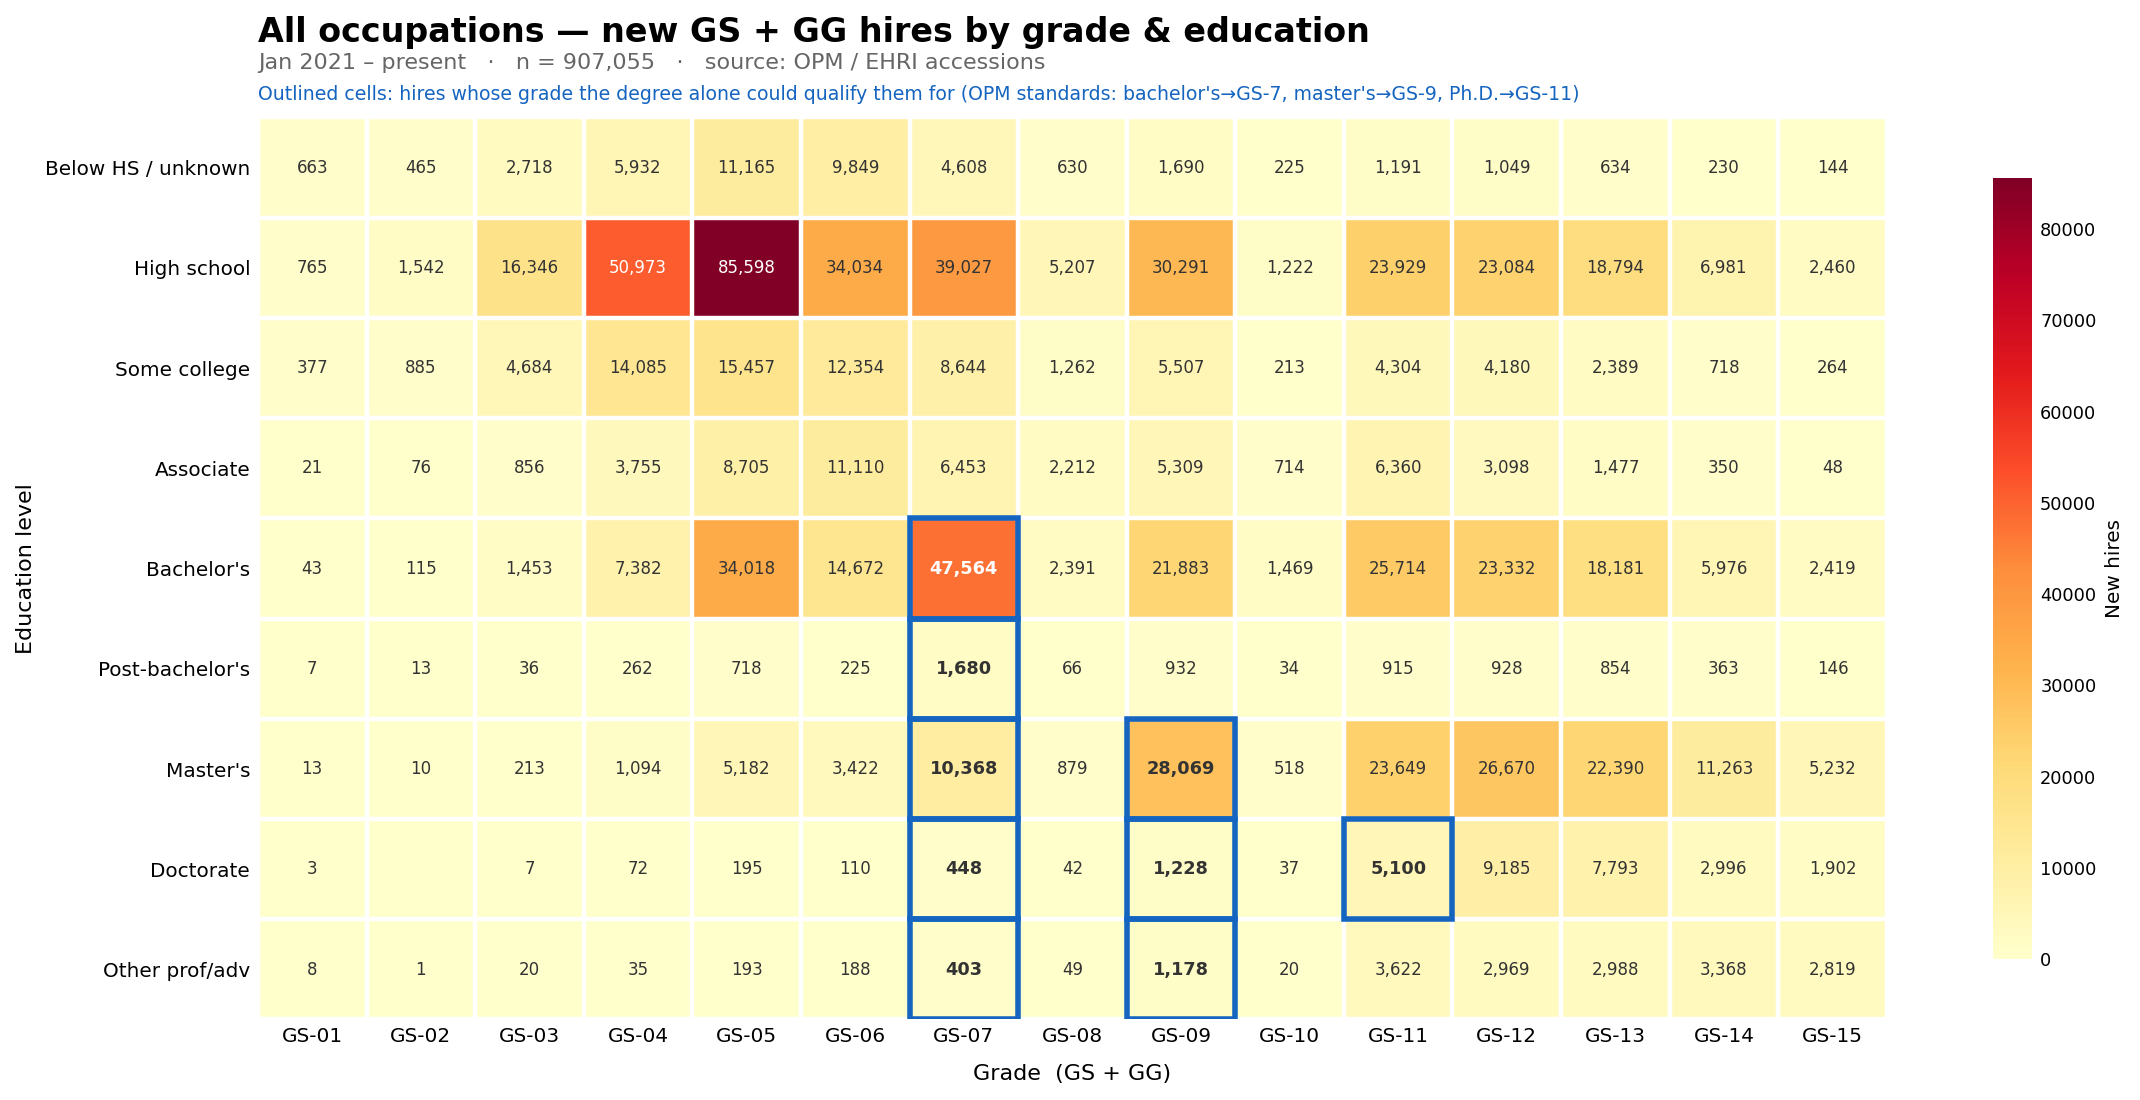
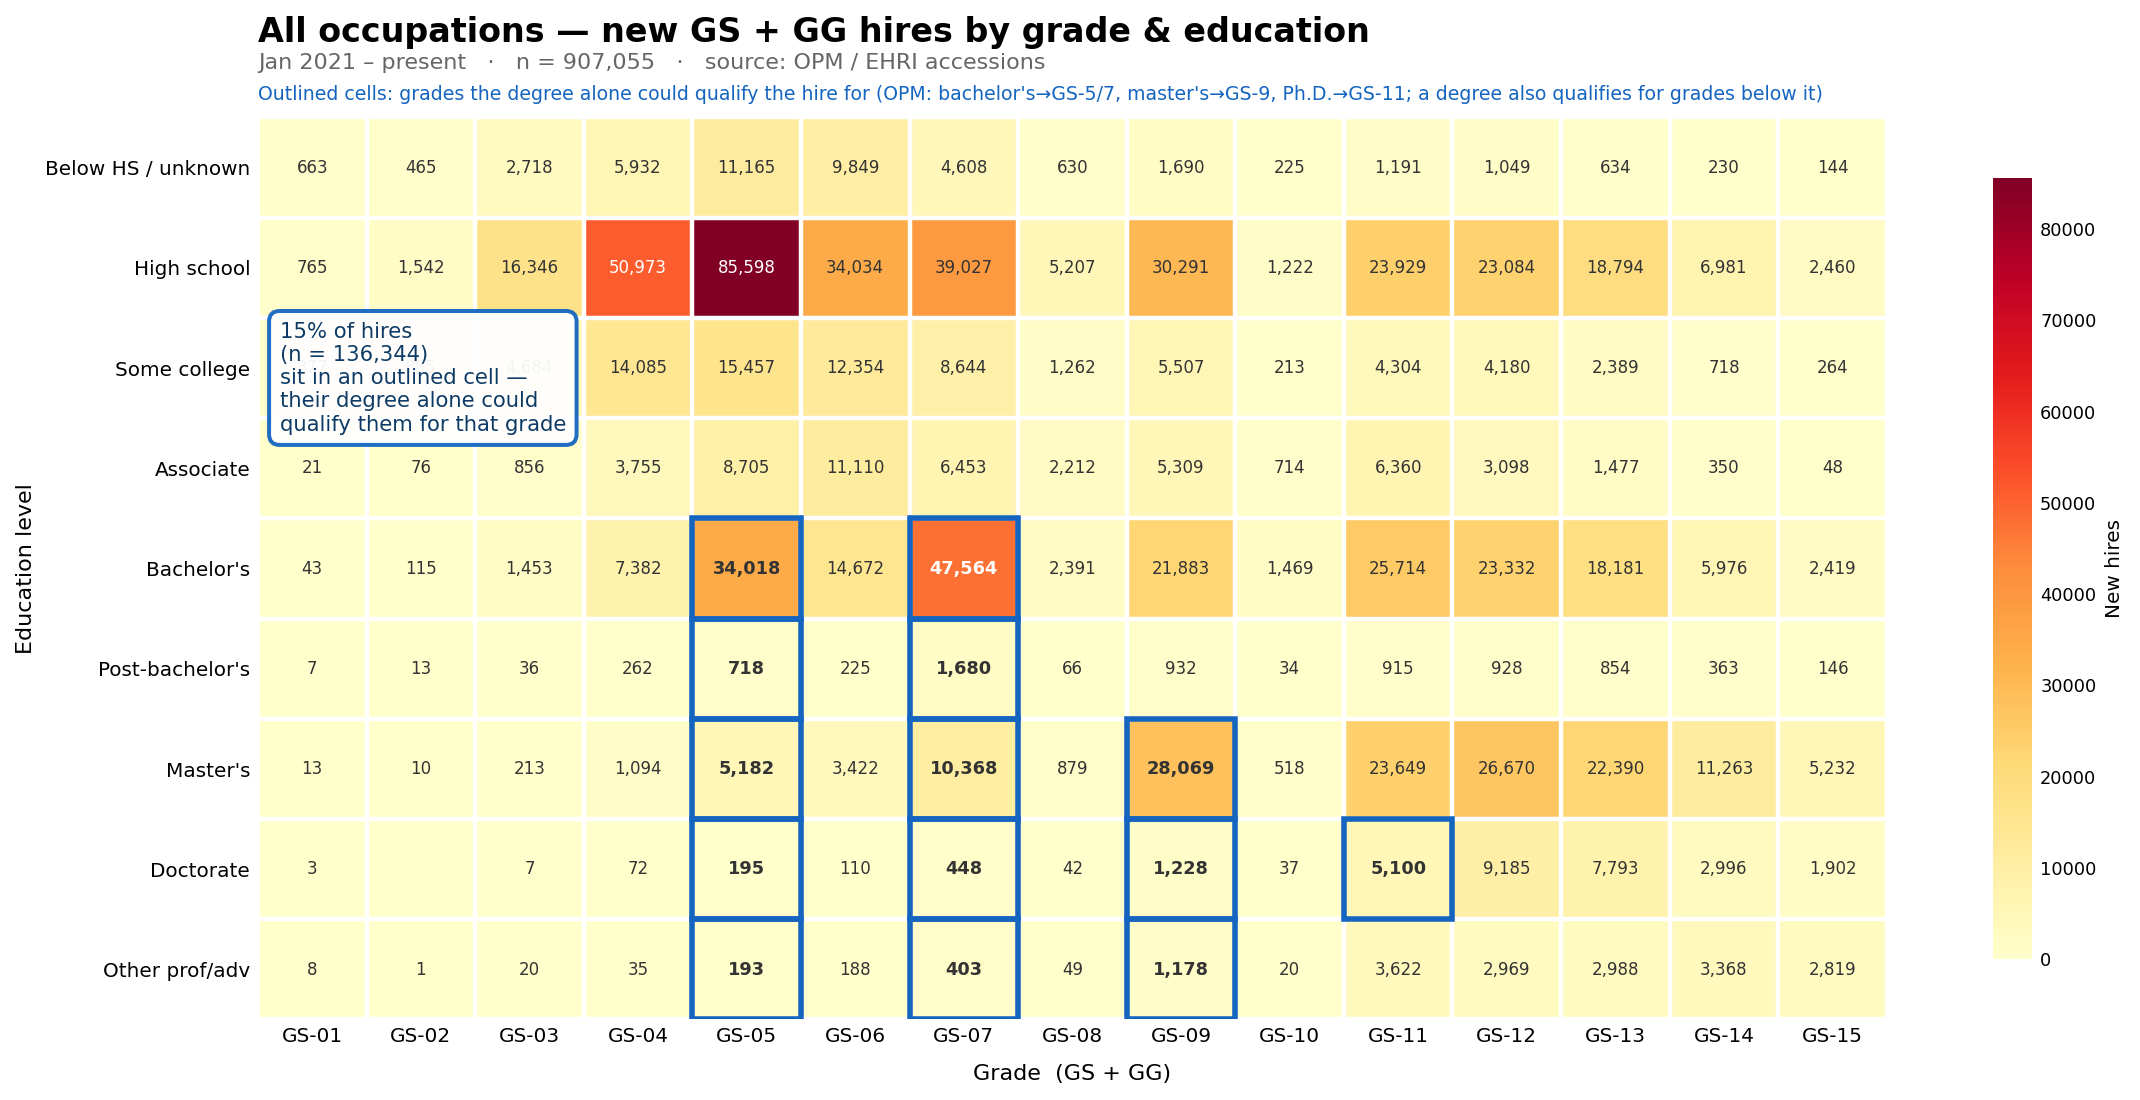
Qualifying cells: full degree→grade staircase + headline share box
- highlight_quals now outlines the full ladder each degree opens
  (bachelor's→GS-5/7, master's→GS-5/7/9, Ph.D.→GS-5/7/9/11), not just the
  ceiling grade.
- Add a callout box reporting the share of hires in any outlined cell
  (all occupations 15.0%; 2210 5.1%).
- Notebook + README reworded for the staircase; re-executed.

diff --git a/ehri_heatmaps.py b/ehri_heatmaps.py
@@ -44,17 +44,25 @@ CODE_TO_BUCKET = {c: name for name, codes in EDU_BUCKETS for c in codes}
 EDU_ORDER = [name for name, _ in EDU_BUCKETS]
 GRADE_ORDER = [f"{g:02d}" for g in range(1, 16)]  # GS-01 .. GS-15
 
-# Cells where the degree alone can qualify a hire for that grade under OPM
-# qualification standards: grade -> set of education buckets at/above the
-# qualifying credential. (Bachelor's -> GS-7 w/ superior academic achievement;
-# Master's -> GS-9; Ph.D./equivalent doctoral -> GS-11.) These mark the top
-# grade the degree reaches; a degree also qualifies for grades below it.
-_ADVANCED = {"Bachelor's", "Post-bachelor's", "Master's", "Doctorate", "Other prof/adv"}
-_MASTERS_UP = {"Master's", "Doctorate", "Other prof/adv"}
+# Cells where the degree alone can qualify a hire for that grade, under OPM's
+# group-coverage qualification standard for professional/2-grade-interval work:
+#   GS-5  <- bachelor's
+#   GS-7  <- bachelor's (superior academic achievement) / 1 yr graduate
+#   GS-9  <- master's / 2 yrs graduate
+#   GS-11 <- Ph.D. / 3 yrs graduate
+# A degree opens its ceiling grade AND every degree-entry grade below it, so the
+# highlighted region is a staircase (e.g. a master's also covers GS-5 and GS-7).
+QUAL_ENTRY_GRADES = ["05", "07", "09", "11"]
+EDU_CEILING = {            # highest degree-entry grade each education bucket opens
+    "Bachelor's":      7,
+    "Post-bachelor's": 7,
+    "Master's":        9,
+    "Other prof/adv":  9,
+    "Doctorate":       11,
+}
 QUAL_RULES = {
-    "07": _ADVANCED,            # bachelor's or higher
-    "09": _MASTERS_UP,          # master's or higher
-    "11": {"Doctorate"},        # Ph.D.
+    g: {b for b, ceil in EDU_CEILING.items() if ceil >= int(g)}
+    for g in QUAL_ENTRY_GRADES
 }
 
 
@@ -167,7 +175,8 @@ def accession_heatmap(series=None, pay_plans=None, all_plans=False,
     totals : bool   show the grey row/column total strips (default True).
     highlight_quals : bool
         Outline cells where the degree alone could qualify the hire for that
-        grade (bachelor's+→GS-7, master's+→GS-9, Ph.D.→GS-11).
+        grade. Staircase: bachelor's opens GS-5/7, master's GS-5/7/9, Ph.D.
+        GS-5/7/9/11 (each degree also covers the lower degree-entry grades).
     save : bool   write a PNG (default heatmap_<series|all>[_gsgg|_allplans].png)
     out : str     explicit output path (implies save)
 
@@ -262,6 +271,18 @@ def _plot(mat, series, series_name, pay_plans, show_totals=True,
         ax.add_patch(Rectangle((j - .5, i - .5), 1, 1, fill=False,
                                edgecolor=qual_color, lw=2.5, zorder=5))
 
+    # callout box with the headline share, dropped into the empty low-grade corner
+    if highlight_quals and qual_cells:
+        qual_sum = sum(data[i, j] for (i, j) in qual_cells)
+        share = qual_sum / grand if grand else 0
+        ax.text(
+            -0.3, 2.1,
+            f"{share:.0%} of hires\n(n = {int(qual_sum):,})\nsit in an outlined cell —\n"
+            "their degree alone could\nqualify them for that grade",
+            ha="left", va="center", fontsize=9.5, color="#0d3b66", zorder=6,
+            bbox=dict(boxstyle="round,pad=0.5", facecolor="white",
+                      edgecolor=qual_color, linewidth=1.8, alpha=0.95))
+
     # margin totals (grey strips): count + share of all hires
     if show_totals:
         grey, dark = "#e8e8e8", "#bdbdbd"
@@ -316,8 +337,8 @@ def _plot(mat, series, series_name, pay_plans, show_totals=True,
         textcoords="offset points", fontsize=10, color="#666666", ha="left")
     if highlight_quals:
         ax.annotate(
-            "Outlined cells: hires whose grade the degree alone could qualify them for "
-            "(OPM standards: bachelor's→GS-7, master's→GS-9, Ph.D.→GS-11)",
+            "Outlined cells: grades the degree alone could qualify the hire for "
+            "(OPM: bachelor's→GS-5/7, master's→GS-9, Ph.D.→GS-11; a degree also qualifies for grades below it)",
             xy=(0, 1), xycoords="axes fraction", xytext=(0, 8),
             textcoords="offset points", fontsize=8.5, color="#1565c0", ha="left")
 

diff --git a/README.md b/README.md
@@ -18,7 +18,8 @@ accession_heatmap("2210", pay_plans="gs+gg",    # outline cells where the degree
 
 Options: `series` (a code, or `None` for all occupations) · `pay_plans`
 (`"gs"`, `"gs+gg"`, `"all"`) · `totals` (row/column total strips) ·
-`highlight_quals` (outline bachelor's→GS-7 / master's→GS-9 / Ph.D.→GS-11 cells).
+`highlight_quals` (outline the degree→grade staircase: bachelor's→GS-5/7,
+master's→GS-5/7/9, Ph.D.→GS-5/7/9/11 — each degree also covers lower entry grades).
 
 Open [`heatmaps.ipynb`](heatmaps.ipynb) to see a figure rendered for each series.
 